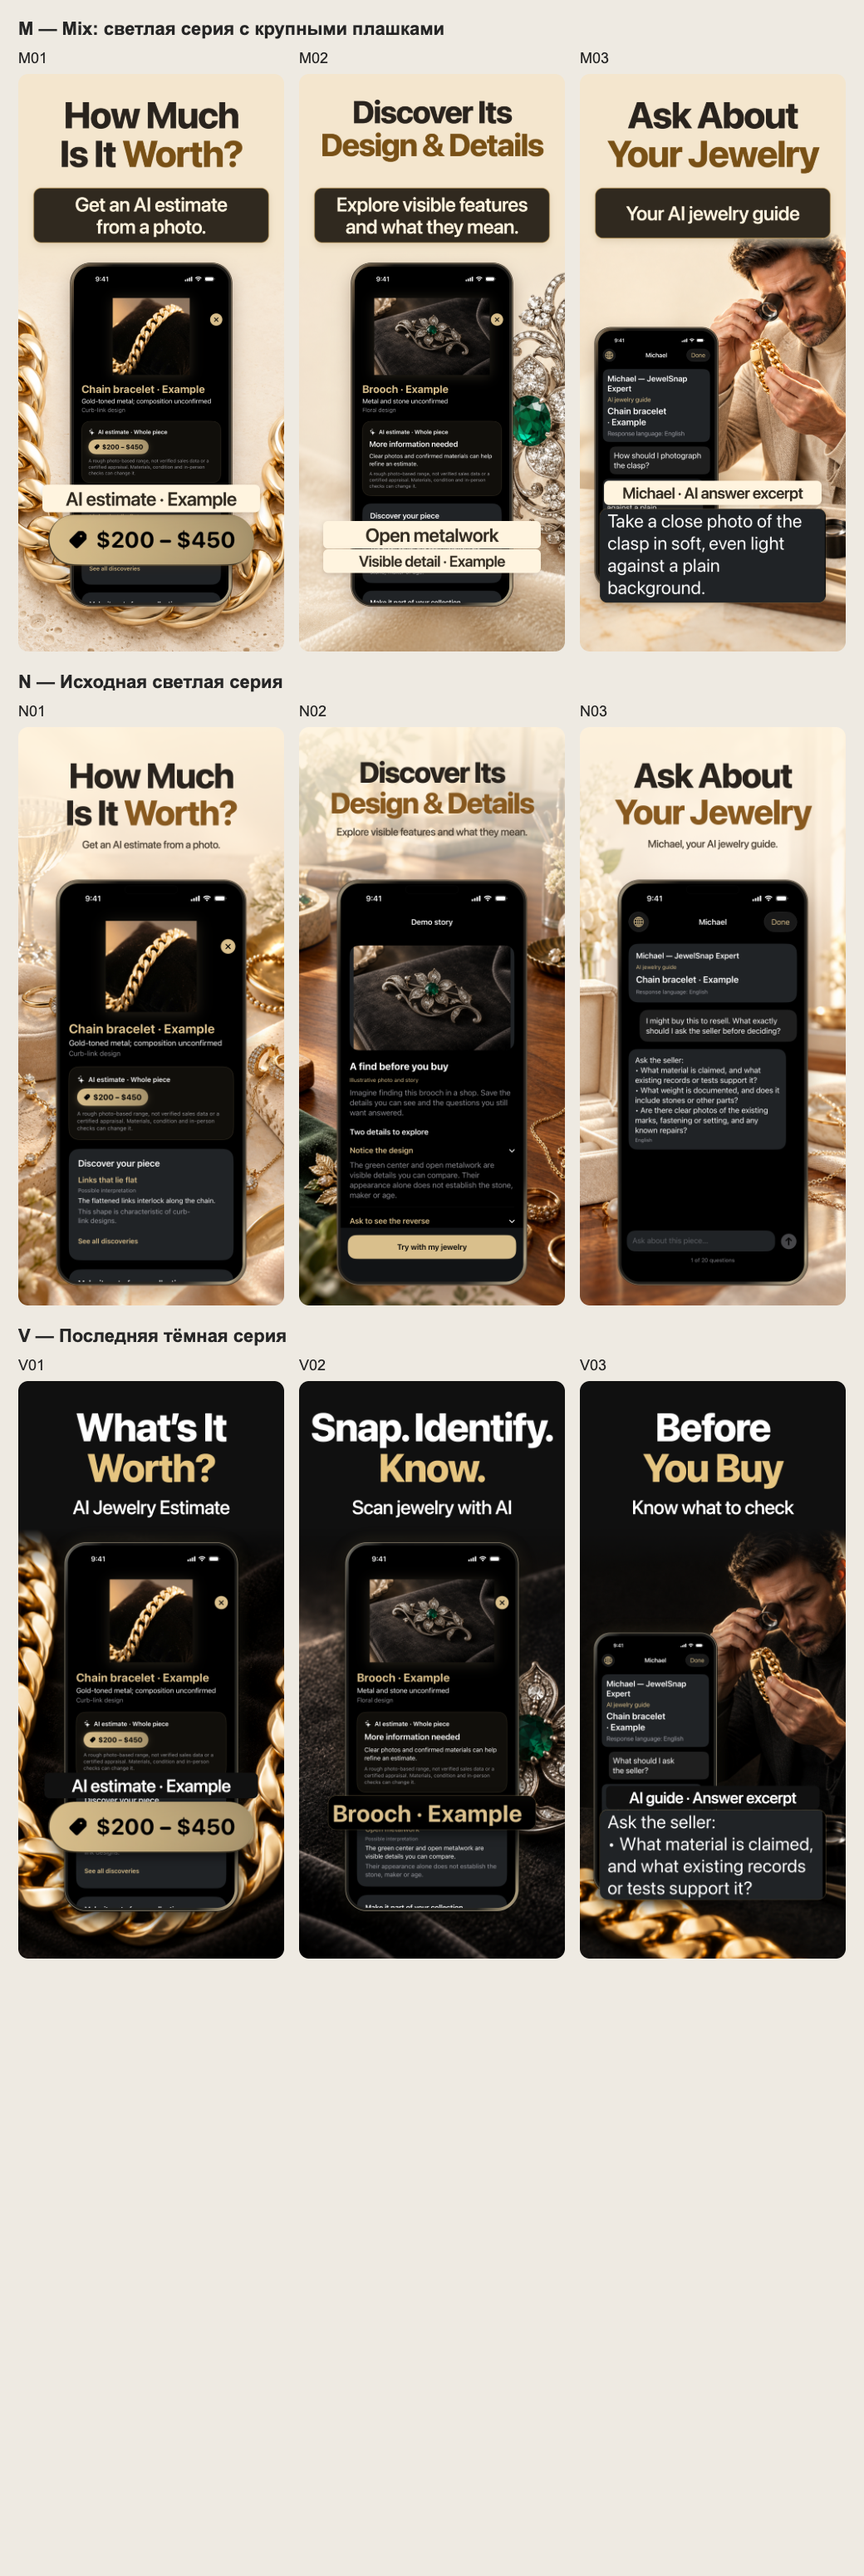
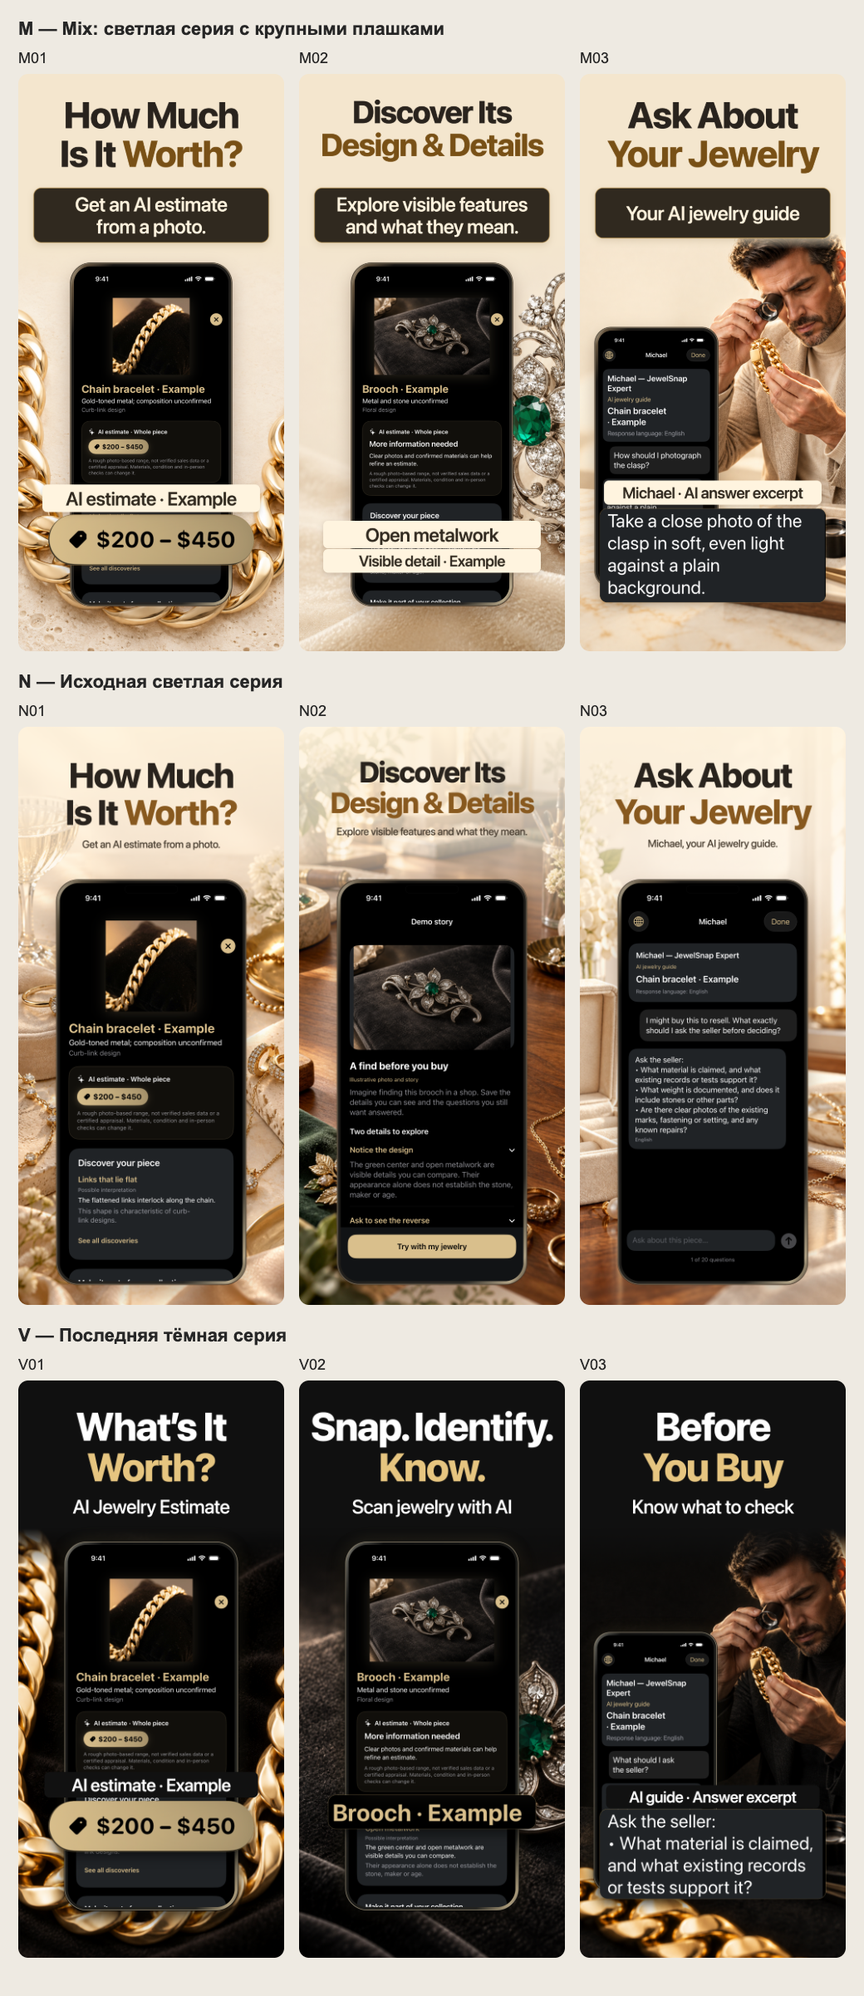
Trim empty space from Mix comparison sheet

diff --git a/index.html b/index.html
@@ -1,5 +1,5 @@
 <!doctype html><html lang="ru"><head><meta charset="utf-8"><meta name="viewport" content="width=device-width,initial-scale=1"><meta name="robots" content="noindex,nofollow"><title>JewelSnap — выбираем скриншоты</title><link rel="stylesheet" href="gallery.css"></head><body>
-<header><h1>JewelSnap · 5 вариантов</h1><p>Выберите кадры и пришлите номера: <strong>M01, N02, V03…</strong></p><p class="small">Нажмите на кадр, чтобы увеличить. Проведите по ряду, чтобы увидеть остальные.</p><nav><a href="comparison-mix.png?v=1" target="_blank" rel="noopener">M / N / V рядом · PNG</a><a href="archive.html">Архив с обоснованиями</a></nav></header>
+<header><h1>JewelSnap · 5 вариантов</h1><p>Выберите кадры и пришлите номера: <strong>M01, N02, V03…</strong></p><p class="small">Нажмите на кадр, чтобы увеличить. Проведите по ряду, чтобы увидеть остальные.</p><nav><a href="comparison-mix.png?v=2" target="_blank" rel="noopener">M / N / V рядом · PNG</a><a href="archive.html">Архив с обоснованиями</a></nav></header>
 <main id="gallery"><p>Загрузка изображений…</p></main>
 <footer>Новая серия M: 1320 × 2868 · <span id="version"></span><br>Это варианты для выбора. Действующие скриншоты App Store здесь не заменяются.</footer>
 <dialog id="viewer" aria-labelledby="viewer-title"><div class="viewer-tools"><strong id="viewer-title"></strong><a id="download" download>Скачать</a><button id="close" aria-label="Закрыть изображение">Закрыть ×</button></div><a id="full" target="_blank" rel="noopener" aria-label="Открыть оригинал"><img id="large" alt=""></a><p id="image-error" role="status" hidden>Не удалось загрузить изображение. <a id="retry-original" target="_blank" rel="noopener">Открыть оригинал</a></p></dialog>
